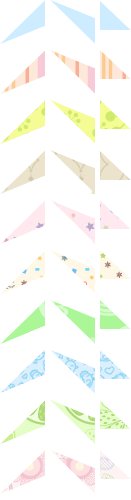
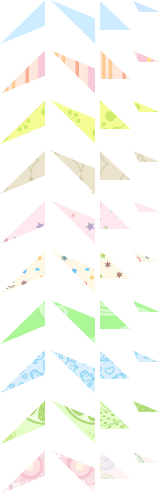
fix

diff --git a/html/social/find_friend.html b/html/social/find_friend.html
@@ -473,7 +473,7 @@
 										</div>
 									</div>
 								</div>
-								<div class="text-status">
+								<div class="text-status pattern pattern-10">
 									<span class="tale"></span>
 									Родители всегда говорили мне, что я могу добиться чего угодно, но никогда не говорили, сколько времени это займет
 								</div>
@@ -522,7 +522,7 @@
 										</div>
 									</div>
 								</div>
-								<div class="text-status">
+								<div class="text-status pattern pattern-11">
 									<span class="tale"></span>
 									Родители всегда говорили мне, что я могу добиться чего угодно, но никогда не говорили, сколько времени это займет
 								</div>
@@ -571,7 +571,7 @@
 										</div>
 									</div>
 								</div>
-								<div class="text-status">
+								<div class="text-status pattern pattern-12">
 									<span class="tale"></span>
 									Родители всегда говорили мне, что я могу добиться чего угодно, но никогда не говорили, сколько времени это займет
 								</div>
@@ -620,7 +620,204 @@
 										</div>
 									</div>
 								</div>
-								<div class="text-status">
+								<div class="text-status pattern pattern-12">
+									<span class="tale"></span>
+									Родители всегда говорили мне, что я могу добиться чего угодно, но никогда не говорили, сколько времени это займет
+								</div>
+							</div>
+							
+							<div class="info">
+								
+								<p class="location"><span class="flag-big flag-big-ru"></span> <span>Россия Ярославская область, г. Гаврилов-Ям</span></p>
+								
+								<p>35 лет, замужем &nbsp; <i class="icon-kid-boy"></i> <i class="icon-kid-girl"></i> <i class="icon-kid-wait"></i></p>
+								
+								<div class="interests">
+									<div class="interest-cat">
+                      <img src="/images/interest_icon_1.png" />
+                  </div>
+                  <ul class="interests-list">
+                    <li><a class="interest">Бильярд</a></li>
+                  </ul>		
+									<div class="interest-cat">
+										<img src="/images/interest_icon_2.png" />
+									</div>
+                  <ul class="interests-list">
+                    <li><a class="interest">Футбол</a></li>
+                    <li><a class="interest">Хоккей</a></li>
+                    <li><a class="interest">Художественная гимнастика</a></li>
+                    <li><a class="interest">Бокс</a></li>
+                    <li><a class="interest">Бильярд</a></li>
+                  </ul>									
+								</div>
+								
+							</div>
+							
+						</li>
+					
+						
+						<li>
+							
+							<div class="clearfix user-info-big">
+								<div class="user-info clearfix">
+									<a class="ava female"></a>
+									<div class="details">
+										<span class="icon-status status-online"></span>
+										<a href="" class="username">Богоявленский</a>
+										<div class="user-fast-buttons">
+											<a href="" class="add-friend"><span class="tip">Пригласить в друзья</span></a>
+											<a href="" class="new-message"><span class="tip">Написать сообщение</span></a>
+										</div>
+									</div>
+								</div>
+								<div class="text-status pattern pattern-15">
+									<span class="tale"></span>
+									Родители всегда говорили мне, что я могу добиться чего угодно, но никогда не говорили, сколько времени это займет
+								</div>
+							</div>
+							
+							<div class="info">
+								
+								<p class="location"><span class="flag-big flag-big-ru"></span> <span>Россия Ярославская область, г. Гаврилов-Ям</span></p>
+								
+								<p>35 лет, замужем &nbsp; <i class="icon-kid-boy"></i> <i class="icon-kid-girl"></i> <i class="icon-kid-wait"></i></p>
+								
+								<div class="interests">
+									<div class="interest-cat">
+                      <img src="/images/interest_icon_1.png" />
+                  </div>
+                  <ul class="interests-list">
+                    <li><a class="interest">Бильярд</a></li>
+                  </ul>		
+									<div class="interest-cat">
+										<img src="/images/interest_icon_2.png" />
+									</div>
+                  <ul class="interests-list">
+                    <li><a class="interest">Футбол</a></li>
+                    <li><a class="interest">Хоккей</a></li>
+                    <li><a class="interest">Художественная гимнастика</a></li>
+                    <li><a class="interest">Бокс</a></li>
+                    <li><a class="interest">Бильярд</a></li>
+                  </ul>									
+								</div>
+								
+							</div>
+							
+						</li>
+					
+						<li>
+							
+							<div class="clearfix user-info-big">
+								<div class="user-info clearfix">
+									<a class="ava female"></a>
+									<div class="details">
+										<span class="icon-status status-online"></span>
+										<a href="" class="username">Богоявленский</a>
+										<div class="user-fast-buttons">
+											<a href="" class="add-friend"><span class="tip">Пригласить в друзья</span></a>
+											<a href="" class="new-message"><span class="tip">Написать сообщение</span></a>
+										</div>
+									</div>
+								</div>
+								<div class="text-status pattern pattern-16">
+									<span class="tale"></span>
+									Родители всегда говорили мне, что я могу добиться чего угодно, но никогда не говорили, сколько времени это займет
+								</div>
+							</div>
+							
+							<div class="info">
+								
+								<p class="location"><span class="flag-big flag-big-ru"></span> <span>Россия</span></p>
+								
+								<p>35 лет, замужем &nbsp; <i class="icon-kid-boy"></i> <i class="icon-kid-girl"></i> <i class="icon-kid-wait"></i></p>
+								
+								<div class="interests">
+									<div class="interest-cat">
+                      <img src="/images/interest_icon_1.png" />
+                  </div>
+                  <ul class="interests-list">
+                    <li><a class="interest">Бильярд</a></li>
+                  </ul>		
+									<div class="interest-cat">
+										<img src="/images/interest_icon_2.png" />
+									</div>
+                  <ul class="interests-list">
+                    <li><a class="interest">Футбол</a></li>
+                    <li><a class="interest">Хоккей</a></li>
+                    <li><a class="interest">Художественная гимнастика</a></li>
+                    <li><a class="interest">Бокс</a></li>
+                    <li><a class="interest">Бильярд</a></li>
+                  </ul>									
+								</div>
+								
+							</div>
+							
+						</li>
+					
+						<li>
+							
+							<div class="clearfix user-info-big">
+								<div class="user-info clearfix">
+									<a class="ava female"></a>
+									<div class="details">
+										<span class="icon-status status-online"></span>
+										<a href="" class="username">Богоявленский</a>
+										<div class="user-fast-buttons">
+											<a href="" class="add-friend"><span class="tip">Пригласить в друзья</span></a>
+											<a href="" class="new-message"><span class="tip">Написать сообщение</span></a>
+										</div>
+									</div>
+								</div>
+								<div class="text-status pattern pattern-17">
+									<span class="tale"></span>
+									Родители всегда говорили мне, что я могу добиться чего угодно, но никогда не говорили, сколько времени это займет
+								</div>
+							</div>
+							
+							<div class="info">
+								
+								<p class="location"><span class="flag-big flag-big-ru"></span> <span>Россия Ярославская область, г. Гаврилов-Ям</span></p>
+								
+								<p>35 лет, замужем &nbsp; <i class="icon-kid-boy"></i> <i class="icon-kid-girl"></i> <i class="icon-kid-wait"></i></p>
+								
+								<div class="interests">
+									<div class="interest-cat">
+                      <img src="/images/interest_icon_1.png" />
+                  </div>
+                  <ul class="interests-list">
+                    <li><a class="interest">Бильярд</a></li>
+                  </ul>		
+									<div class="interest-cat">
+										<img src="/images/interest_icon_2.png" />
+									</div>
+                  <ul class="interests-list">
+                    <li><a class="interest">Футбол</a></li>
+                    <li><a class="interest">Хоккей</a></li>
+                    <li><a class="interest">Художественная гимнастика</a></li>
+                    <li><a class="interest">Бокс</a></li>
+                    <li><a class="interest">Бильярд</a></li>
+                  </ul>									
+								</div>
+								
+							</div>
+							
+						</li>
+					
+						<li>
+							
+							<div class="clearfix user-info-big">
+								<div class="user-info clearfix">
+									<a class="ava female"></a>
+									<div class="details">
+										<span class="icon-status status-online"></span>
+										<a href="" class="username">Богоявленский</a>
+										<div class="user-fast-buttons">
+											<a href="" class="add-friend"><span class="tip">Пригласить в друзья</span></a>
+											<a href="" class="new-message"><span class="tip">Написать сообщение</span></a>
+										</div>
+									</div>
+								</div>
+								<div class="text-status pattern pattern-18">
 									<span class="tale"></span>
 									Родители всегда говорили мне, что я могу добиться чего угодно, но никогда не говорили, сколько времени это займет
 								</div>

diff --git a/stylesheets/common.css b/stylesheets/common.css
@@ -227,7 +227,17 @@ box-shadow:1px 1px 1px rgba(0,0,0,.2);behavior: url(/stylesheets/PIE.htc);}
 
 .user-info-big .text-status {clear:both;background:#cce7fe;position:relative;padding:10px 15px;font-size:11px;color:#5e5e5e;line-height:14px;width:200px;}
 .user-info-big .text-status {/*css3*/ -moz-border-radius:8px;-webkit-border-radius:8px;border-radius:8px;}
-.user-info-big .text-status .tale {display:block;width:26px;height:11px;background:url(/images/common.png) no-repeat -424px -261px;position:absolute;top:-11px;left:8px;}
+.user-info-big .text-status .tale {display:block;width:26px;height:11px;background:url("/images/bg_pattern_user_status.png") no-repeat -133px 0;position:absolute;top:-11px;left:8px;}
+.user-info-big .text-status.pattern{opacity:.7;color:#242424;}
+.user-info-big .text-status.pattern-10 .tale {background-position:-133px -50px;}
+.user-info-big .text-status.pattern-11 .tale {background-position:-133px -100px;}
+.user-info-big .text-status.pattern-12 .tale {background-position:-133px -150px;}
+.user-info-big .text-status.pattern-13 .tale {background-position:-133px -200px;}
+.user-info-big .text-status.pattern-14 .tale {background-position:-133px -250px;}
+.user-info-big .text-status.pattern-15 .tale {background-position:-133px -300px;}
+.user-info-big .text-status.pattern-16 .tale {background-position:-133px -350px;}
+.user-info-big .text-status.pattern-17 .tale {background-position:-133px -400px;}
+.user-info-big .text-status.pattern-18 .tale {background-position:-133px -450px;}
 
 .user-fast-nav {font-size:11px;font-family:tahoma, arial, helvetica, sans-serif;color:#a4cce8;clear:left;margin-bottom:12px;margin-left:15px;line-height;12px;}
 .user-fast-nav .more {text-decoration:none;border-bottom:1px dashed #029AD2;}
@@ -4118,25 +4128,25 @@ label {
 #fancybox-content > div {overflow: visible !important;}
 
 /* patterns */
-.pattern-1 {background:url(/images/bg_pattern_1.gif);}
-.pattern-2 {background:url(/images/bg_pattern_2.png);}
-.pattern-3 {background:url(/images/bg_pattern_3.png);}
-.pattern-4 {background:url(/images/bg_pattern_4.gif);}
-.pattern-5 {background:url(/images/bg_pattern_5.png);}
-.pattern-6 {background:url(/images/bg_pattern_6.png);}
-.pattern-7 {background:url(/images/bg_pattern_7.gif);}
-.pattern-8 {background:url(/images/bg_pattern_8.jpg);}
-.pattern-9 {background:url(/images/bg_pattern_9.png);}
-.pattern-10 {background:url(/images/bg_pattern_10.jpg);}
-.pattern-11 {background:url(/images/bg_pattern_11.jpg);}
-.pattern-12 {background:url(/images/bg_pattern_12.jpg);}
-.pattern-13 {background:url(/images/bg_pattern_13.jpg);}
-.pattern-14 {background:url(/images/bg_pattern_14.jpg);}
-.pattern-15 {background:url(/images/bg_pattern_15.jpg);}
-.pattern-16 {background:url(/images/bg_pattern_16.jpg);}
-.pattern-17 {background:url(/images/bg_pattern_17.jpg);}
-.pattern-18 {background:url(/images/bg_pattern_18.jpg);}
-.pattern-19 {background:url(/images/bg_pattern_19.jpg);}
+.pattern-1 {background:url(/images/bg_pattern_1.gif) !important;}
+.pattern-2 {background:url(/images/bg_pattern_2.png) !important;}
+.pattern-3 {background:url(/images/bg_pattern_3.png) !important;}
+.pattern-4 {background:url(/images/bg_pattern_4.gif) !important;}
+.pattern-5 {background:url(/images/bg_pattern_5.png) !important;}
+.pattern-6 {background:url(/images/bg_pattern_6.png) !important;}
+.pattern-7 {background:url(/images/bg_pattern_7.gif) !important;}
+.pattern-8 {background:url(/images/bg_pattern_8.jpg) !important;}
+.pattern-9 {background:url(/images/bg_pattern_9.png) !important;}
+.pattern-10 {background:url(/images/bg_pattern_10.jpg) !important;}
+.pattern-11 {background:url(/images/bg_pattern_11.jpg) !important;}
+.pattern-12 {background:url(/images/bg_pattern_12.jpg) !important;}
+.pattern-13 {background:url(/images/bg_pattern_13.jpg) !important;}
+.pattern-14 {background:url(/images/bg_pattern_14.jpg) !important;}
+.pattern-15 {background:url(/images/bg_pattern_15.jpg) !important;}
+.pattern-16 {background:url(/images/bg_pattern_16.jpg) !important;}
+.pattern-17 {background:url(/images/bg_pattern_17.jpg) !important;}
+.pattern-18 {background:url(/images/bg_pattern_18.jpg) !important;}
+.pattern-19 {background:url(/images/bg_pattern_19.jpg) !important;}
 
 /* fonts color */
 .font-color-0 {color:#353535 !important;}

diff --git a/html/social/user/user_widgets_02.html b/html/social/user/user_widgets_02.html
@@ -428,25 +428,25 @@
 								<div class="user-mood">
 									Мое настроение &ndash; <img src="/images/user_mood_01.png" />
 								</div>
-								
+								<!-- всего 9 паттернов и один стиль по умолчани. Классы pattern-10 - pattern-18 -->
 								<div class="user-status">
 									<p><a href="" class="pseudo">Что бы Вы хотели всем сообщить?</a></p>
 								</div>
-								
+								<!-- всего 9 паттернов и один стиль по умолчани. Классы pattern-10 - pattern-18 -->
 								<div class="user-status">
 									<form>
 										<textarea></textarea><br/>
 										<button class="btn btn-green-small"><span><span>Ок</span></span></button>
 									</form>
 								</div>
-								
+								<!-- всего 9 паттернов и один стиль по умолчани. Классы pattern-10 - pattern-18 -->
 								<div class="user-status">
 									
 									<div class="date"><a href="" class="a-right pseudo">Новый статус</a>20 февраля 2012, 13:45</div>
 									<p>Привет всем! У меня все ok!<br/>
 									Единственное, что имеет значение в конце нашего пребывания на земле, - это то, как сильно мы любили. </p>
 								</div>
-								
+								<!-- всего 9 паттернов и один стиль по умолчани. Классы pattern-10 - pattern-18 -->
 								<div class="user-status pattern pattern-17">
 									
 									<div class="date"><a href="" class="a-right pseudo">Новый статус</a>20 февраля 2012, 13:45</div>
@@ -457,8 +457,8 @@
 										<a href="" class="a-right pseudo">Стиль статуса</a>
 									</div>
 								</div>
-								<!-- всего 9 паттернов и один стиль по умолчанию -->
-								<div class="user-status pattern pattern-17 toggled">
+								<!-- всего 9 паттернов и один стиль по умолчани. Классы pattern-10 - pattern-18 -->
+								<div class="user-status pattern pattern-18 toggled">
 									
 									<div class="date"><a href="" class="a-right pseudo">Новый статус</a>20 февраля 2012, 13:45</div>
 									<p>Привет всем! У меня все ok!<br/>
